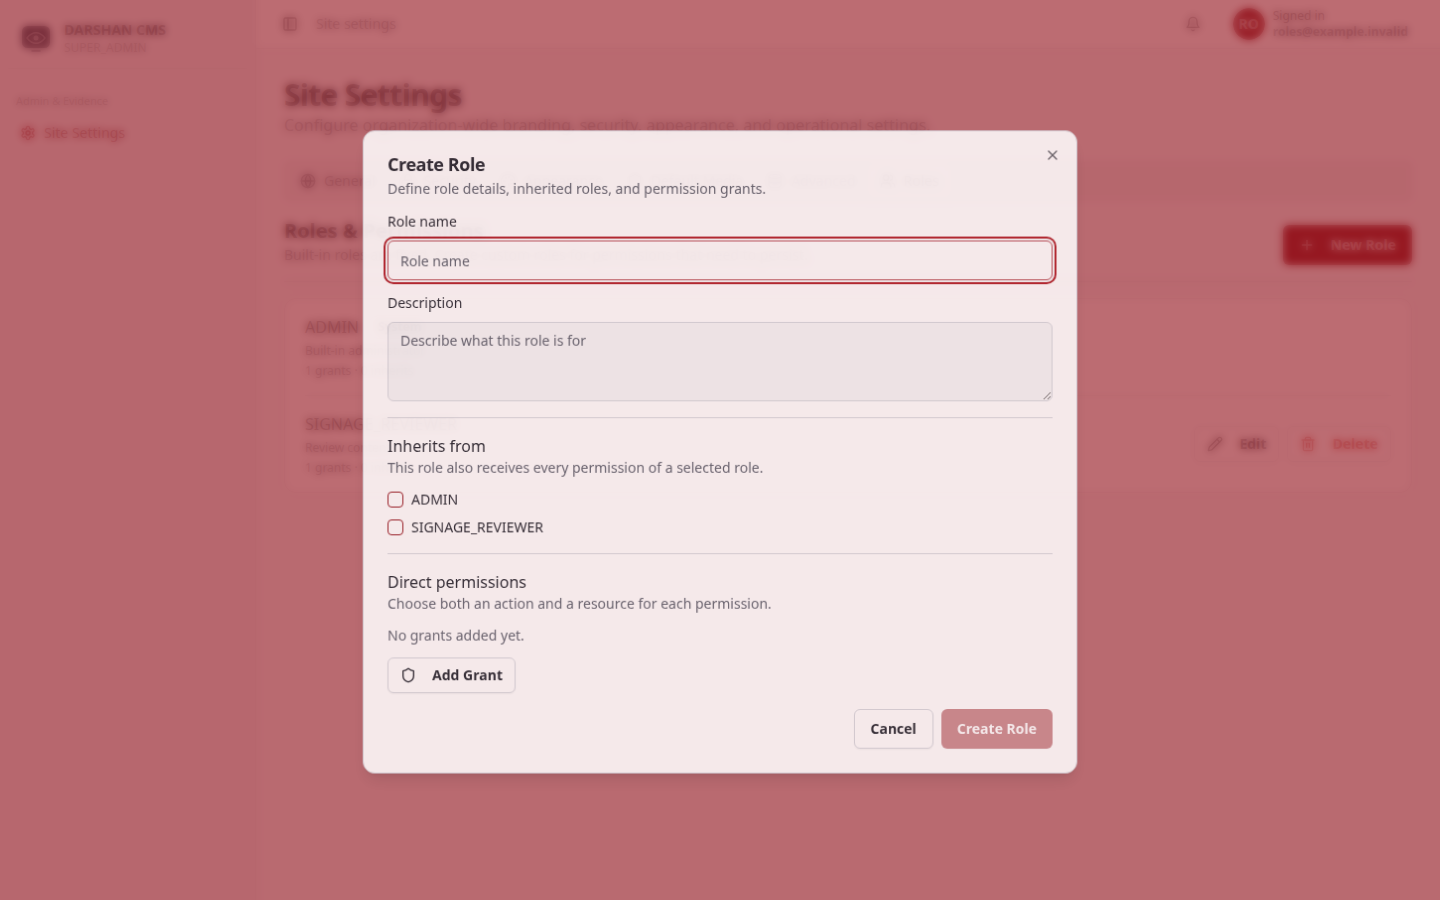
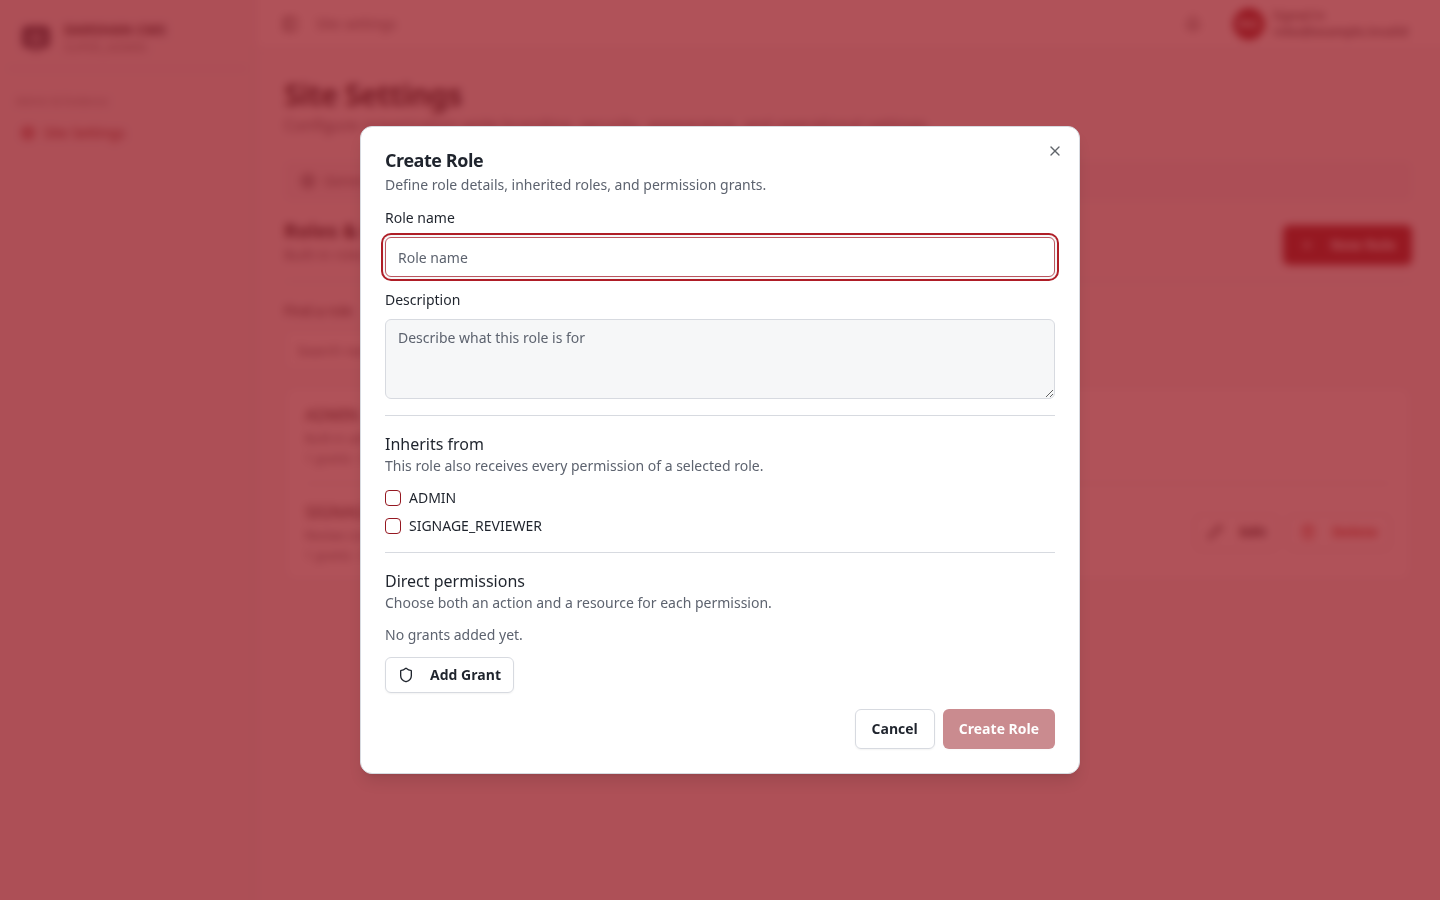
fix(roles): load the complete role directory for admin workflows
Fetch all bounded server pages before exposing role selectors, with visible retry on incomplete loads. Add search and paging to the Roles tab, cover later-page inheritance and failure paths, and record combined browser regression evidence.

diff --git a/darshan-cms/tests/settings-roles-ui.e2e.spec.ts b/darshan-cms/tests/settings-roles-ui.e2e.spec.ts
@@ -10,12 +10,17 @@ const roleGrants: TestCapability[] = [
   ...["read", "create", "update", "delete"].map((action) => ({ action, subject: "Role" })),
 ];
 
-async function setup(page: Page, grants: TestCapability[], options: { metadataFails?: boolean; deleteFails?: boolean; actorRole?: string } = {}) {
+async function setup(page: Page, grants: TestCapability[], options: { metadataFails?: boolean; deleteFails?: boolean; failPage2?: boolean; actorRole?: string; extraRoles?: number } = {}) {
   const user = { ...actor, role: options.actorRole ?? actor.role };
   let metadataFails = Boolean(options.metadataFails);
   let deleteFails = Boolean(options.deleteFails);
+  let failPage2 = Boolean(options.failPage2);
   const writes: { method: string; path: string; body?: unknown }[] = [];
   const roles = [fixedRole, customRole];
+  const rolePages: number[] = [];
+  for (let index = 0; index < (options.extraRoles ?? 0); index += 1) {
+    roles.push({ ...customRole, id: `00000000-0000-4000-8000-${String(index + 100).padStart(12, "0")}`, name: `ROLE_${index}` });
+  }
 
   await page.context().addCookies([
     { name: "access_token", value: "roles-qa-session", url: origin, httpOnly: true, sameSite: "Lax" },
@@ -40,7 +45,13 @@ async function setup(page: Page, grants: TestCapability[], options: { metadataFa
     if (path === "/api/v1/settings/appearance") return json({ theme_mode: "light", accent_preset: "crimson", sidebar_mode: "expanded" });
     if (path === "/api/v1/settings/backups") return json({ automatic_enabled: true, interval_hours: 24, log_level: "info", external_sidecar: false, manual_run_supported: true });
     if (path === "/api/v1/settings/backups/history" || path === "/api/v1/settings/logs") return json({ items: [] });
-    if (path === "/api/v1/roles" && method === "GET") return json({ items: roles, pagination: { page: 1, limit: 100, total: roles.length } });
+    if (path === "/api/v1/roles" && method === "GET") {
+      const pageNumber = Number(url.searchParams.get("page") ?? 1);
+      const limit = Number(url.searchParams.get("limit") ?? 100);
+      rolePages.push(pageNumber);
+      if (pageNumber === 2 && failPage2) return json({ error: { message: "Unavailable" } }, 503);
+      return json({ items: roles.slice((pageNumber - 1) * limit, pageNumber * limit), pagination: { page: pageNumber, limit, total: roles.length } });
+    }
     if (path === "/api/v1/permissions/metadata") return metadataFails ? json({ error: { message: "Unavailable" } }, 503) : json({ actions: ["read", "create"], subjects: ["Dashboard", "Media"] });
     if (path === "/api/v1/roles" && method === "POST") {
       const body = route.request().postDataJSON();
@@ -59,7 +70,7 @@ async function setup(page: Page, grants: TestCapability[], options: { metadataFa
     }
     return json({});
   });
-  return { writes, restoreMetadata: () => { metadataFails = false; }, restoreDelete: () => { deleteFails = false; } };
+  return { writes, rolePages, restoreMetadata: () => { metadataFails = false; }, restoreDelete: () => { deleteFails = false; }, restorePage2: () => { failPage2 = false; } };
 }
 
 test("built-in roles are fixed; a read-only role sees no mutations", async ({ page }) => {
@@ -136,4 +147,35 @@ test("roles remain usable at phone, tablet and desktop widths", async ({ page })
     expect(await page.evaluate(() => document.documentElement.scrollWidth <= window.innerWidth)).toBe(true);
     if (width !== 820) await page.screenshot({ path: `../qa-artifacts/evidence/product-ui-roles/${width}-dialog.png`, fullPage: true });
   }
+});
+
+test("roles beyond the first API page remain searchable and available for inheritance", async ({ page }) => {
+  const state = await setup(page, roleGrants, { extraRoles: 105 });
+  await page.goto("/settings");
+  await page.getByRole("tab", { name: "Roles" }).click();
+  await expect.poll(() => state.rolePages).toContain(2);
+  await expect(page.getByText("Showing 1–20 of 107 roles")).toBeVisible();
+  await page.getByRole("button", { name: "Next" }).click();
+  await expect(page.getByText("Showing 21–40 of 107 roles")).toBeVisible();
+  await page.getByLabel("Find a role").fill("ROLE_104");
+  await expect(page.getByText("ROLE_104", { exact: true })).toBeVisible();
+  await page.getByRole("button", { name: "New Role" }).click();
+  const dialog = page.getByRole("dialog", { name: "Create Role" });
+  await dialog.getByLabel("Role name").fill("INHERITS_LAST_PAGE");
+  await dialog.getByText("ROLE_104", { exact: true }).click();
+  await dialog.getByRole("button", { name: "Create Role" }).click();
+  await expect.poll(() => state.writes.length).toBe(1);
+  expect((state.writes[0].body as { permissions: { inherits: string[] } }).permissions.inherits).toContain("00000000-0000-4000-8000-000000000204");
+});
+
+test("a later-page failure does not show a partial role directory", async ({ page }) => {
+  const state = await setup(page, roleGrants, { extraRoles: 105, failPage2: true });
+  await page.goto("/settings");
+  await page.getByRole("tab", { name: "Roles" }).click();
+  await expect(page.getByText("Could not load roles.")).toBeVisible();
+  await expect(page.getByText(customRole.name)).toHaveCount(0);
+  state.restorePage2();
+  await page.getByRole("button", { name: "Retry" }).click();
+  await expect(page.getByLabel("Find a role")).toBeVisible();
+  await expect.poll(() => state.rolePages.filter((value) => value === 2).length).toBe(2);
 });

diff --git a/darshan-cms/src/components/settings/RolesPermissionsTab.tsx b/darshan-cms/src/components/settings/RolesPermissionsTab.tsx
@@ -45,11 +45,21 @@ export function RolesPermissionsTab() {
   const [editingRole, setEditingRole] = useState<Role | null>(null);
   const [roleToDelete, setRoleToDelete] = useState<Role | null>(null);
   const [deleteConfirmation, setDeleteConfirmation] = useState("");
+  const [roleSearch, setRoleSearch] = useState("");
+  const [rolePage, setRolePage] = useState(1);
 
   const [name, setName] = useState("");
   const [description, setDescription] = useState("");
   const [inherits, setInherits] = useState<string[]>([]);
   const [grants, setGrants] = useState<RolePermissionGrant[]>([]);
+
+  const filteredRoles = useMemo(() => {
+    const query = roleSearch.trim().toLocaleLowerCase();
+    return query ? roles.filter((item) => `${item.name} ${item.description ?? ""}`.toLocaleLowerCase().includes(query)) : roles;
+  }, [roleSearch, roles]);
+  const pageCount = Math.max(1, Math.ceil(filteredRoles.length / 20));
+  const currentPage = Math.min(rolePage, pageCount);
+  const visibleRoles = filteredRoles.slice((currentPage - 1) * 20, currentPage * 20);
 
   const availableInherits = useMemo(
     () => roles.filter((role) => role.id !== editingRole?.id),
@@ -157,6 +167,10 @@ export function RolesPermissionsTab() {
         <span>Could not refresh roles. Showing the last loaded list.</span>
         <Button variant="outline" size="sm" onClick={() => void retryRoles()}>Retry</Button>
       </div> : null}
+      {rolesData ? <div className="max-w-sm space-y-2">
+        <Label htmlFor="role-search">Find a role</Label>
+        <Input id="role-search" value={roleSearch} onChange={(event) => { setRoleSearch(event.target.value); setRolePage(1); }} placeholder="Search name or description" />
+      </div> : null}
       <div className="divide-y rounded-xl border bg-card px-4 sm:px-5">
           {rolesError && !rolesData ? (
             <div className="space-y-3 py-6"><p className="text-sm text-destructive">Could not load roles.</p><Button variant="outline" onClick={() => void retryRoles()}>Retry</Button></div>
@@ -165,9 +179,11 @@ export function RolesPermissionsTab() {
             <div className="py-6 text-sm text-muted-foreground">Loading roles…</div>
           ) : !rolesError && roles.length === 0 ? (
             <div className="py-6 text-sm text-muted-foreground">No roles available.</div>
-          ) : roles.length > 0 ? (
+          ) : filteredRoles.length === 0 ? (
+            <div className="py-6 text-sm text-muted-foreground">No roles match that search.</div>
+          ) : filteredRoles.length > 0 ? (
             <div>
-              {roles.map((role) => (
+              {visibleRoles.map((role) => (
                 <div
                   key={role.id}
                   className="flex flex-wrap items-center justify-between gap-3 border-b py-4 last:border-b-0"
@@ -214,6 +230,13 @@ export function RolesPermissionsTab() {
             </div>
           ) : null}
       </div>
+      {filteredRoles.length > 20 ? <div className="flex flex-wrap items-center justify-between gap-3 text-sm text-muted-foreground">
+        <span>Showing {(currentPage - 1) * 20 + 1}–{Math.min(currentPage * 20, filteredRoles.length)} of {filteredRoles.length} roles</span>
+        <div className="flex gap-2">
+          <Button variant="outline" size="sm" onClick={() => setRolePage(currentPage - 1)} disabled={currentPage === 1}>Previous</Button>
+          <Button variant="outline" size="sm" onClick={() => setRolePage(currentPage + 1)} disabled={currentPage >= pageCount}>Next</Button>
+        </div>
+      </div> : null}
       {rolesFetching && rolesData ? <p className="text-xs text-muted-foreground">Updating roles…</p> : null}
 
       <Dialog open={isDialogOpen} onOpenChange={setIsDialogOpen}>

diff --git a/darshan-cms/src/api/domains/roles.ts b/darshan-cms/src/api/domains/roles.ts
@@ -1,6 +1,6 @@
 import { apiClient } from "../apiClient";
 import { endpoints } from "../endpoints";
-import type { PaginatedResponse, PaginationParams, Role } from "../types";
+import type { PaginatedApiResponse, PaginatedResponse, PaginationParams, Role } from "../types";
 
 export interface RoleListParams extends PaginationParams {
   search?: string;
@@ -13,12 +13,33 @@ export interface RolePayload {
 }
 
 export const rolesApi = {
-  list: (params?: RoleListParams) =>
-    apiClient.request<PaginatedResponse<Role>>({
+  list: async (params?: RoleListParams, signal?: AbortSignal): Promise<PaginatedResponse<Role>> => {
+    const response = await apiClient.request<PaginatedApiResponse<Role> | PaginatedResponse<Role>>({
       path: endpoints.roles.base,
       method: "GET",
       query: params,
-    }),
+      signal,
+    });
+    const pagination = "pagination" in response ? response.pagination : response;
+    return { items: response.items, page: pagination.page, limit: pagination.limit, total: pagination.total };
+  },
+
+  listAll: async (signal?: AbortSignal): Promise<PaginatedResponse<Role>> => {
+    const items: Role[] = [];
+    const seen = new Set<string>();
+    for (let page = 1; page <= 100; page += 1) {
+      const result = await rolesApi.list({ page, limit: 100 }, signal);
+      const previousCount = items.length;
+      for (const role of result.items) {
+        if (seen.has(role.id)) continue;
+        seen.add(role.id);
+        items.push(role);
+      }
+      if (items.length >= result.total) return { items, page: 1, limit: items.length, total: items.length };
+      if (result.items.length < 100 || items.length === previousCount) break;
+    }
+    throw new Error("The complete role list could not be loaded. Refresh and try again.");
+  },
 
   create: (payload: RolePayload) =>
     apiClient.request<Role>({

diff --git a/darshan-cms/src/hooks/useRolesApi.ts b/darshan-cms/src/hooks/useRolesApi.ts
@@ -5,12 +5,11 @@ import { queryKeys } from "@/api/queryKeys";
 import { useToast } from "@/hooks/use-toast";
 import type { RolePayload, RoleListParams } from "@/api/domains/roles";
 
-const DEFAULT_ROLE_LIST: RoleListParams = { page: 1, limit: 100 };
-
 export const useRolesList = (params?: RoleListParams) =>
   useQuery({
-    queryKey: queryKeys.roles(params ?? DEFAULT_ROLE_LIST),
-    queryFn: () => rolesApi.list(params ?? DEFAULT_ROLE_LIST),
+    queryKey: params ? queryKeys.roles(params) : ["roles", "all"],
+    queryFn: ({ signal }) => params ? rolesApi.list(params, signal) : rolesApi.listAll(signal),
+    retry: false,
     staleTime: 60_000,
   });
 
@@ -26,6 +25,7 @@ export const usePermissionsMetadata = () =>
   useQuery({
     queryKey: queryKeys.permissionsMetadata,
     queryFn: permissionsApi.metadata,
+    retry: false,
     staleTime: 300_000,
   });
 

diff --git a/docs/design-discovery/PRODUCT_UI_COVERAGE_REGISTER.md b/docs/design-discovery/PRODUCT_UI_COVERAGE_REGISTER.md
@@ -225,7 +225,7 @@ The next pass expands each route into control-level rows. The following rows ide
 | Departments | Search/page/refresh, create/edit, lazy operator roster, exact-name delete and 409 blockers. | Exact Department action grants; User list and operator-name search require `read User`; server remains delete authority. | Four new and six affected browser cases, two DB route tests; 390/820/1440 plus dark phone. | Real membership/ownership and concurrent delete, many operators, permission withdrawal, accessibility. |
 | Operators | Search/page/refresh, create/edit, primary/additional membership, activate, reset, delete and technical ID disclosure. | Exact User action grants; server enforces target role/department and resets sessions. | Six new and six affected browser cases; 390/820/1440 plus dark phone. | Real actor journeys, permission withdrawal, clipboard denial, many operators, accessibility. |
 | Users and activation | Account/invitation lists, create/edit/delete, invitation create/renew, public activation and error/retry. | Exact User grants; server target policy; invite inactive and code consumed once. | Six new Users, four activation and ten affected browser cases; six DB invite cases; 390/820/1440 plus dark phone. | Real recipient and admin journey, email delivery decision, clipboard, permission withdrawal, zoom and accessibility. |
-| Roles and permissions | Read list, create/edit custom role, direct grants/inheritance, exact-name custom delete, metadata and list Retry. | Effective Role action grants; built-in roles fixed in CMS and direct API; mutations do not automatically retry. | Four fixture browser cases, seven focused DB route cases, 390/820/1440 and phone/desktop dialog captures. | Real-service role change/session withdrawal, more than 100 roles and inheritance choices, concurrent editors, cycle and stale grant review, accessibility. |
+| Roles and permissions | Complete directory with search/20-row paging, create/edit custom role, direct grants/inheritance, exact-name custom delete, metadata and list Retry. | Effective Role action grants; built-in roles fixed in CMS and direct API; mutations do not automatically retry; an incomplete multi-page list fails visibly. | Six fixture browser cases including a 107-role directory and later-page failure, seven focused DB route cases, 390/820/1440 and phone/desktop dialog captures. | Real-service role change/session withdrawal, concurrent editors, cycle and stale grant review, accessibility. |
 | Unknown route | Explanation and authorized Dashboard return. | No API request; Dashboard link follows current effective `read Dashboard`. | Admin browser 4/4 and 390/820/1440 captures. | Direct URL reload through deployment proxy, keyboard and screen-reader review. |
 | Conversations | List, conversation, thread, drafts, message More and navigation. | Chat/media APIs and REST-authoritative state. | Fixture-backed chat browser; desktop and phone captures. | Invitations, membership, attachments, moderation and concurrent actors. |
 | Player pairing/recovery | Hostname, OTP, expiry, waiting/provisioning, diagnostics and lock/recovery states. | Main-process identity and server expiry authority. | Built renderer prototype at full, compact, minimal and short sizes. | Packaged player lifecycle and remaining owned surfaces. |

diff --git a/qa-artifacts/evidence/product-ui-roles-developer-verification-2026-11-04.md b/qa-artifacts/evidence/product-ui-roles-developer-verification-2026-11-04.md
@@ -11,11 +11,12 @@ Branch: `codex/darshan-product-ui-redesign-20261103`. Visual direction approved 
 
 ## Developer evidence
 
-- `darshan-cms/tests/settings-roles-ui.e2e.spec.ts`: 4/4 fixture-backed browser cases passed. A targeted visual rerun passed at 390, 820 and 1440 CSS pixels with no horizontal overflow. [Phone dialog](product-ui-roles/390-dialog.png) and [desktop dialog](product-ui-roles/1440-dialog.png) were inspected.
+- `darshan-cms/tests/settings-roles-ui.e2e.spec.ts`: six fixture-backed browser cases passed across focused runs. The 107-role case loaded a second API page and selected its final role as an inheritance source; a second-page HTTP failure showed Retry and no partial list. A targeted visual rerun passed at 390, 820 and 1440 CSS pixels with no horizontal overflow. [Phone dialog](product-ui-roles/390-dialog.png) and [desktop dialog](product-ui-roles/1440-dialog.png) were inspected.
 - `darshan-server/src/routes/roles-permissions.test.ts`: 7/7 passed against the dedicated `darshan_users_ui_test` PostgreSQL database, including direct built-in update rejection and an unchanged row.
 - CMS production build and bundle budget passed. Server TypeScript build passed. CMS unit suite passed 272/272. Focused CMS lint and `git diff --check` passed.
 - One packet-boundary browser run of Roles, Settings, Default Media and admin stabilization passed 17/17 with one worker.
+- After the complete-directory change, a combined Roles, Users, Operators and admin browser run passed 22/22 with one worker. CMS build/bundle budget, 272/272 units and focused lint passed again.
 
 ## Remaining release QA
 
-These browser tests use fixture API responses, not a two-operator running site. Human QA must verify a real custom-role create/edit/reload, session withdrawal across API and realtime, role assignment, update/delete blockers, restart/upgrade behavior, permission withdrawal while the dialog is open, concurrent edits, inheritance cycles and more than 100 roles. The present Roles list requests only the first 100, and its inheritance choices are drawn from that page; this needs a separate pagination/search packet before claiming large-role-site support. Keyboard, screen-reader and production deployment checks remain open.
+These browser tests use fixture API responses, not a two-operator running site. Human QA must verify a real custom-role create/edit/reload, session withdrawal across API and realtime, role assignment, update/delete blockers, restart/upgrade behavior, permission withdrawal while the dialog is open, concurrent edits, inheritance cycles and a production-sized role directory. The complete-directory request is bounded to 100 server pages and fails visibly if it cannot load all pages. Keyboard, screen-reader and production deployment checks remain open.

diff --git a/docs/design-discovery/PRODUCT_UI_REDESIGN_PROGRESS.md b/docs/design-discovery/PRODUCT_UI_REDESIGN_PROGRESS.md
@@ -160,4 +160,6 @@ The existing Default Media targets mutation was also corrected: a stale-revision
 
 The Roles tab now presents a separated list with effective-grant controls, explicit loading/failure/retry states, labeled form fields, complete/unique grant validation, and exact-name confirmation before deleting a custom role. Built-in roles are read-only in CMS, and the server rejects a direct built-in update with `409`; this matches BQ-008 because startup synchronization otherwise erased temporary edits. A custom role with `read Role` can see the same built-in records that the API returns. Create/update/delete mutations do not automatically retry after an uncertain response.
 
-Four fixture-backed browser cases passed for read-only custom actors, create validation, failed metadata and delete response, and 390/820/1440 layouts. Seven focused database route tests passed, including an unchanged built-in role after direct update rejection. CMS 272 unit tests, CMS/server builds, bundle budget and focused lint passed. [Developer evidence](../../qa-artifacts/evidence/product-ui-roles-developer-verification-2026-11-04.md) records captures and the outstanding real-service/security QA.
+Six fixture-backed browser cases passed for read-only custom actors, create validation, failed metadata and delete response, 390/820/1440 layouts, later-page inheritance, and later-page failure/Retry. Seven focused database route tests passed, including an unchanged built-in role after direct update rejection. CMS 272 unit tests, CMS/server builds, bundle budget and focused lint passed. [Developer evidence](../../qa-artifacts/evidence/product-ui-roles-developer-verification-2026-11-04.md) records captures and the outstanding real-service/security QA.
+
+The role directory now fetches every server page before presenting a complete list, then offers local name/description search and 20-row paging. User and Operator role selectors share the complete result. A later-page failure shows Retry without presenting a partial list; a fixture browser journey selected an inherited role beyond the first 100 records. The request remains bounded to 100 pages and fails visibly if the list cannot be completed.
